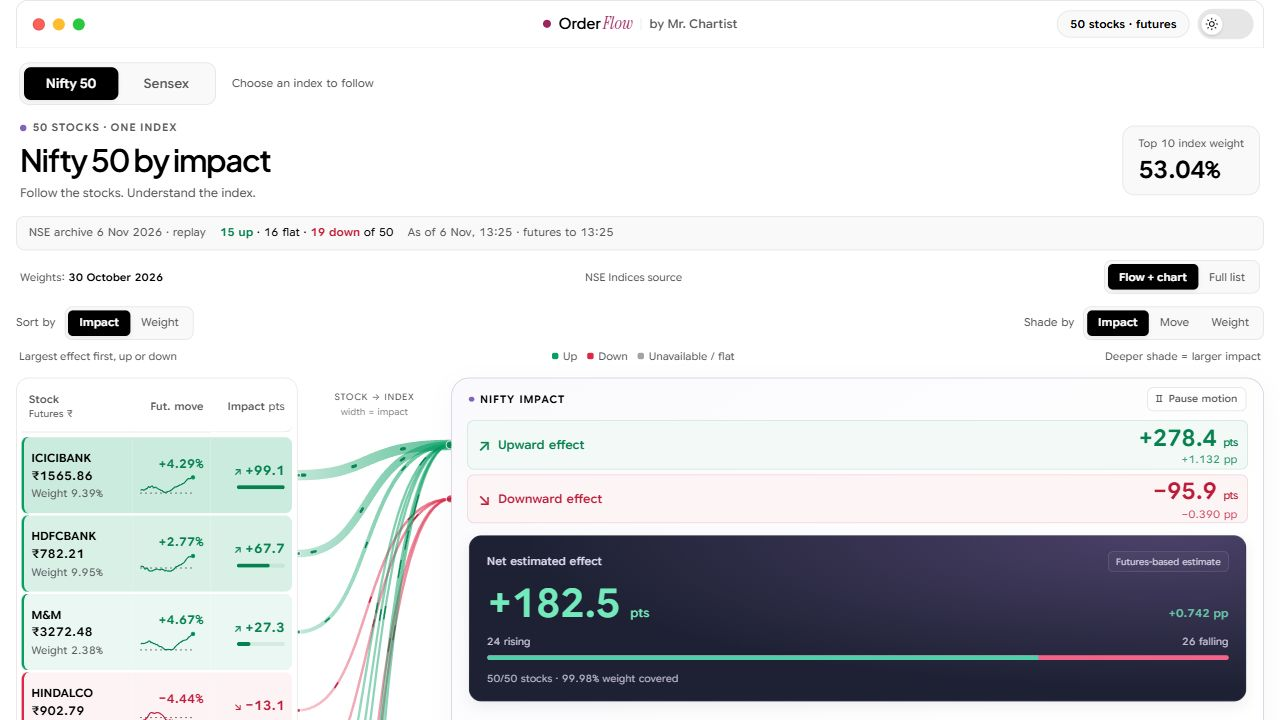
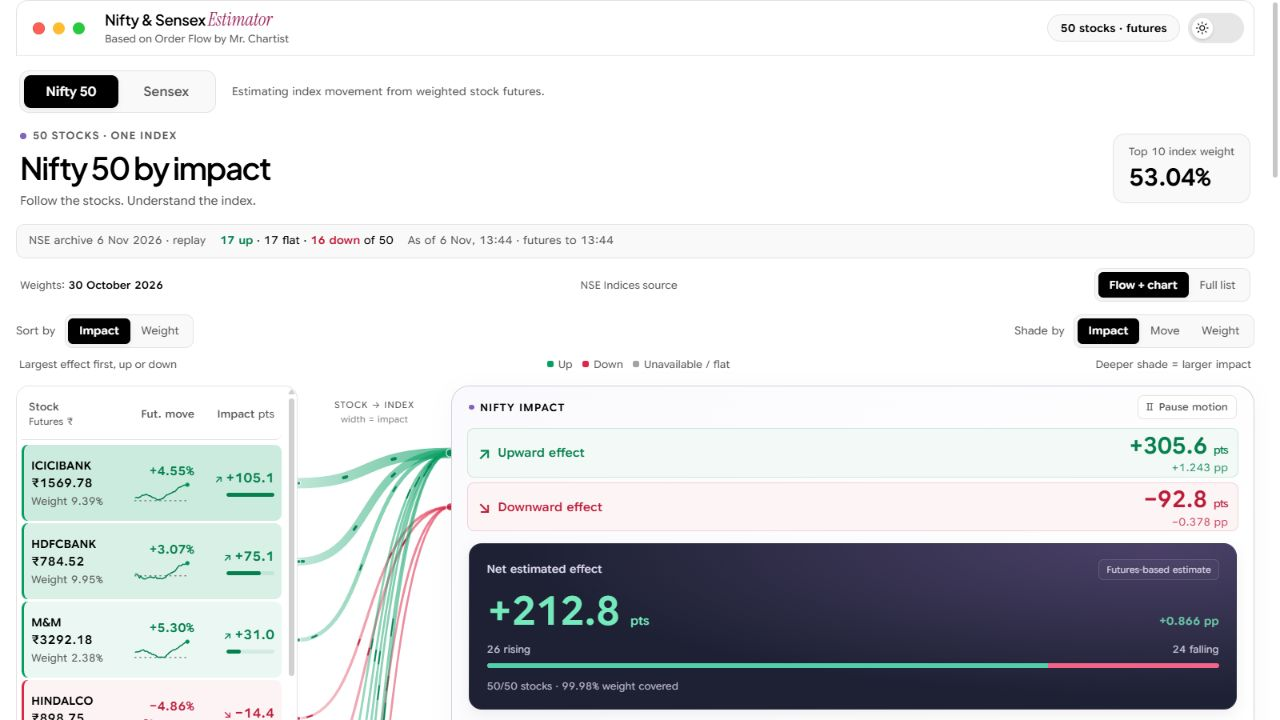
Name the custom dashboard Nifty & Sensex Estimator

diff --git a/src/features/market-flow/MarketFlowPage.tsx b/src/features/market-flow/MarketFlowPage.tsx
@@ -31,13 +31,12 @@ interface MarketFlowPageProps {
   universe: Underlying[];
 }
 
-/** The wordmark: Order Flow in the website's heading face, the Mr. Chartist dot, and who made it. */
+/** Name this custom edition while keeping the original project credit visible. */
 const BRAND = (
-  <a className="mf-brand" href="https://mrchartist.com/open-source/order-flow" target="_blank" rel="noreferrer" aria-label="Order Flow by Mr. Chartist">
-    <span className="mf-brand__dot" aria-hidden="true" />
-    <span className="mf-brand__name">Order <em>Flow</em></span>
-    <span className="mf-brand__by">by Mr. Chartist</span>
-  </a>
+  <div className="mf-brand mf-brand--estimator">
+    <span className="mf-brand__name">Nifty &amp; Sensex <em>Estimator</em></span>
+    <a className="mf-brand__credit" href="https://mrchartist.com/open-source/order-flow" target="_blank" rel="noreferrer">Based on Order Flow by Mr. Chartist</a>
+  </div>
 );
 
 export function MarketFlowPage({ universe }: MarketFlowPageProps) {
@@ -68,8 +67,8 @@ export function MarketFlowPage({ universe }: MarketFlowPageProps) {
 
   return (
     <div className="ui-flow oi-design" data-window="day" data-universe={indexId} data-layout="weights">
-      <h1 className="is-visually-hidden">Order Flow</h1>
-      <PageBar current="Order Flow" crumbs={false} className="oi-design ui-flow-pagebar" brand={BRAND}>{pageActions}</PageBar>
+      <h1 className="is-visually-hidden">Nifty &amp; Sensex Estimator</h1>
+      <PageBar current="Nifty & Sensex Estimator" crumbs={false} className="oi-design ui-flow-pagebar" brand={BRAND}>{pageActions}</PageBar>
       <div className="nw-index-nav"><div role="tablist" aria-label="Choose index" className="nw-index-tabs">
         {INDEX_DEFINITIONS.map((index, position) => <button type="button" role="tab" id={`${index.id}-tab`} key={index.id} aria-selected={indexId === index.id} aria-controls={`${index.id}-board`} tabIndex={indexId === index.id ? 0 : -1} onClick={() => changeIndex(index.id)} onKeyDown={event => {
           if (!['ArrowLeft', 'ArrowRight', 'Home', 'End'].includes(event.key)) return;
@@ -78,7 +77,7 @@ export function MarketFlowPage({ universe }: MarketFlowPageProps) {
           changeIndex(next.id);
           document.getElementById(`${next.id}-tab`)?.focus();
         }}>{index.label}</button>)}
-      </div><span>Choose an index to follow</span></div>
+      </div><span>Estimating index movement from weighted stock futures.</span></div>
       <div role="tabpanel" id={`${indexId}-board`} aria-labelledby={`${indexId}-tab`}>
       <NiftyWeightBoard key={indexId} definition={definition} flow={flow} benchmark={benchmarkStock}
         status={<FlowStatus flow={flow} at={market?.at ?? null} loading={loading} error={error} provider={provider} futuresRead={futuresRead} futuresTotal={futuresTotal} onRescan={rescan} />} />

diff --git a/src/features/market-flow/nifty-weight-board.css b/src/features/market-flow/nifty-weight-board.css
@@ -6,7 +6,7 @@
   max-width: 1680px; margin: 0 auto; padding-bottom: 24px;
 }
 .nw-scope { padding: 6px 12px; border-radius: 999px; background: var(--ni-soft); border: 1px solid var(--ni-border); font-size: 11px; font-weight: 650; white-space: nowrap; }
-.nw-index-nav { display: flex; align-items: center; gap: 16px; padding: 14px 3px 3px; }
+.nw-index-nav { display: flex; flex-wrap: wrap; align-items: center; gap: 16px; padding: 14px 3px 3px; }
 .nw-index-nav > span { font-size: 11px; color: var(--text-muted); }
 .nw-index-tabs { display: flex; gap: 3px; border: 1px solid var(--ni-border); background: var(--ni-soft); padding: 4px; border-radius: 10px; }
 .nw-index-tabs button { border: 0; border-radius: 7px; background: transparent; color: var(--text-muted); padding: 8px 22px; font-size: 13px; font-weight: 550; }
@@ -254,3 +254,15 @@
 @media (max-width: 620px) { .ni-top-grid { grid-template-columns: 1fr; gap: 20px; } }
 @media (prefers-reduced-motion: reduce) { .nw-board *, .nw-board *::before, .nw-board *::after { animation: none !important; transition: none !important; } }
 @media (prefers-reduced-motion: reduce) { .ni-connectors .ni-wire-travel { display: none; } }
+
+/* Keep the custom name and upstream credit readable together on narrow screens. */
+.ui-flow[data-layout='weights'] .ui-flow-pagebar { height: auto; min-height: 56px; }
+.ui-flow .mf-brand--estimator { position: static; transform: none; display: flex; flex-direction: column; align-items: flex-start; gap: 3px; min-width: 0; margin-right: auto; padding: 6px 0; white-space: normal; }
+.ui-flow .mf-brand--estimator .mf-brand__name { line-height: 1.25; }
+.ui-flow .mf-brand__credit { font: 400 10.5px/1.3 var(--font-sans); color: var(--text-muted); text-decoration: none; text-underline-offset: 3px; }
+.ui-flow .mf-brand__credit:hover { text-decoration: underline; }
+.ui-flow .mf-brand__credit:focus-visible { outline: 2px solid var(--text); outline-offset: 3px; }
+@media (max-width: 620px) {
+  .ui-flow[data-layout='weights'] .ui-flow-pagebar { padding-left: 10px; gap: 8px; }
+  .ui-flow[data-layout='weights'] .ui-flow-pagebar::before, .ui-flow[data-layout='weights'] .nw-scope { display: none; }
+}

diff --git a/index.html b/index.html
@@ -3,8 +3,8 @@
   <head>
     <meta charset="UTF-8" />
     <meta name="viewport" content="width=device-width, initial-scale=1.0, viewport-fit=cover" />
-    <title>Order Flow</title>
-    <meta name="description" content="Order Flow: where the money is flowing across Indian F&amp;O, live. Every underlying read from its future: bulls above the zero line, bears below, each on its own path." />
+    <title>Nifty &amp; Sensex Estimator</title>
+    <meta name="description" content="Estimating Nifty and Sensex movement from weighted stock futures. Includes archive replay, contribution rankings and index-futures comparisons. Based on Order Flow by Mr. Chartist." />
     <meta name="author" content="Mr. Chartist, https://mrchartist.com" />
     <link rel="icon" type="image/svg+xml" href="/favicon.svg" />
     <meta name="theme-color" content="#ffffff" />

diff --git a/docs/WINDOWS_SETUP.md b/docs/WINDOWS_SETUP.md
@@ -1,4 +1,4 @@
-# Windows setup — Nifty 50 & Sensex
+# Windows setup — Nifty & Sensex Estimator
 
 This guide is for the public fork at [azad1/order-flow](https://github.com/azad1/order-flow). It uses Windows PowerShell and the bundled archive replay. You do not need a broker account, API key or Python.
 
@@ -172,7 +172,7 @@ For a future live provider, follow [the provider setup section](../README.md#con
 | `node` or `npm.cmd` is not recognized | Close all terminal windows and open a new one after installing Node. If it still fails, use the checks below before reinstalling anything. |
 | `npm.ps1 cannot be loaded` / scripts are disabled | Use **`npm.cmd`**, as shown here. Do not change the system execution policy. |
 | `package.json` cannot be found / `ENOENT` | Open PowerShell in the extracted project folder, not its parent or the ZIP file. `Test-Path .\package.json` should return True. |
-| `EADDRINUSE` / port 8787 is already in use | Stop the other Order Flow server in its terminal, then retry. Do not stop unrelated processes. |
+| `EADDRINUSE` / port 8787 is already in use | Stop the other Estimator server in its terminal, then retry. Do not stop unrelated processes. |
 | The terminal prints port 5196 or another page address | Port 5195 was occupied, so Vite selected another port. Use the exact Local address printed, or stop the earlier app instance and restart. |
 | The page shows loading, pending or unavailable futures | Wait for the first collection to finish and read the status line. Missing futures are not replaced with cash prices. Check terminal errors if loading never completes. |
 | It says Demo or shows an older date | Start with `npm.cmd run dev:archive` and read the replay date. Fetching an archive does not establish a live connection. |

diff --git a/README.md b/README.md
@@ -1,6 +1,8 @@
-# Order Flow — Nifty 50 & Sensex
+# Nifty & Sensex Estimator
 
-A visual dashboard for seeing how constituent stock futures may contribute to Nifty 50 and Sensex movements.
+**Estimating index movement from weighted stock futures.**
+
+Combine constituent futures movements with their index weights to estimate Nifty 50 and Sensex movement, and compare that estimate with the index future. This is an estimate of movement in the selected session, not a forecast of future prices.
 
 This is a **personal, non-commercial fork** of [MrChartist/order-flow](https://github.com/MrChartist/order-flow), originally created by [Mr. Chartist](https://mrchartist.com). The original [licence](LICENSE), copyright notice and [third-party notices](NOTICE.md) are preserved.
 

diff --git a/CUSTOMIZATIONS.md b/CUSTOMIZATIONS.md
@@ -1,4 +1,4 @@
-# Nifty / Sensex custom edition
+# Nifty & Sensex Estimator — custom edition
 
 This is a personal, non-commercial adaptation of **Order Flow**, created by
 [Mr. Chartist](https://mrchartist.com). Original source:
@@ -16,6 +16,7 @@ separate licence described by the original project.
 
 ## What changed
 
+- The custom edition is named **Nifty & Sensex Estimator**, with the original Order Flow credit retained.
 - Nifty 50 and Sensex tabs with one combined constituent list for each index.
 - Sort stocks by descending published weight or largest absolute estimated impact.
 - Distinct futures price, futures percentage move, index weight and estimated point-impact labels.

diff --git a/docs/screenshots/README.md b/docs/screenshots/README.md
@@ -1,4 +1,4 @@
-# Current dashboard screenshots
+# Nifty & Sensex Estimator screenshots
 
 These are unedited captures of the running Nifty/Sensex fork, taken on **8 November 2026**. The app was replaying the bundled **6 November 2026 exchange archive session**. They are documentation examples, not current quotes, live-feed verification or trading recommendations.
 
